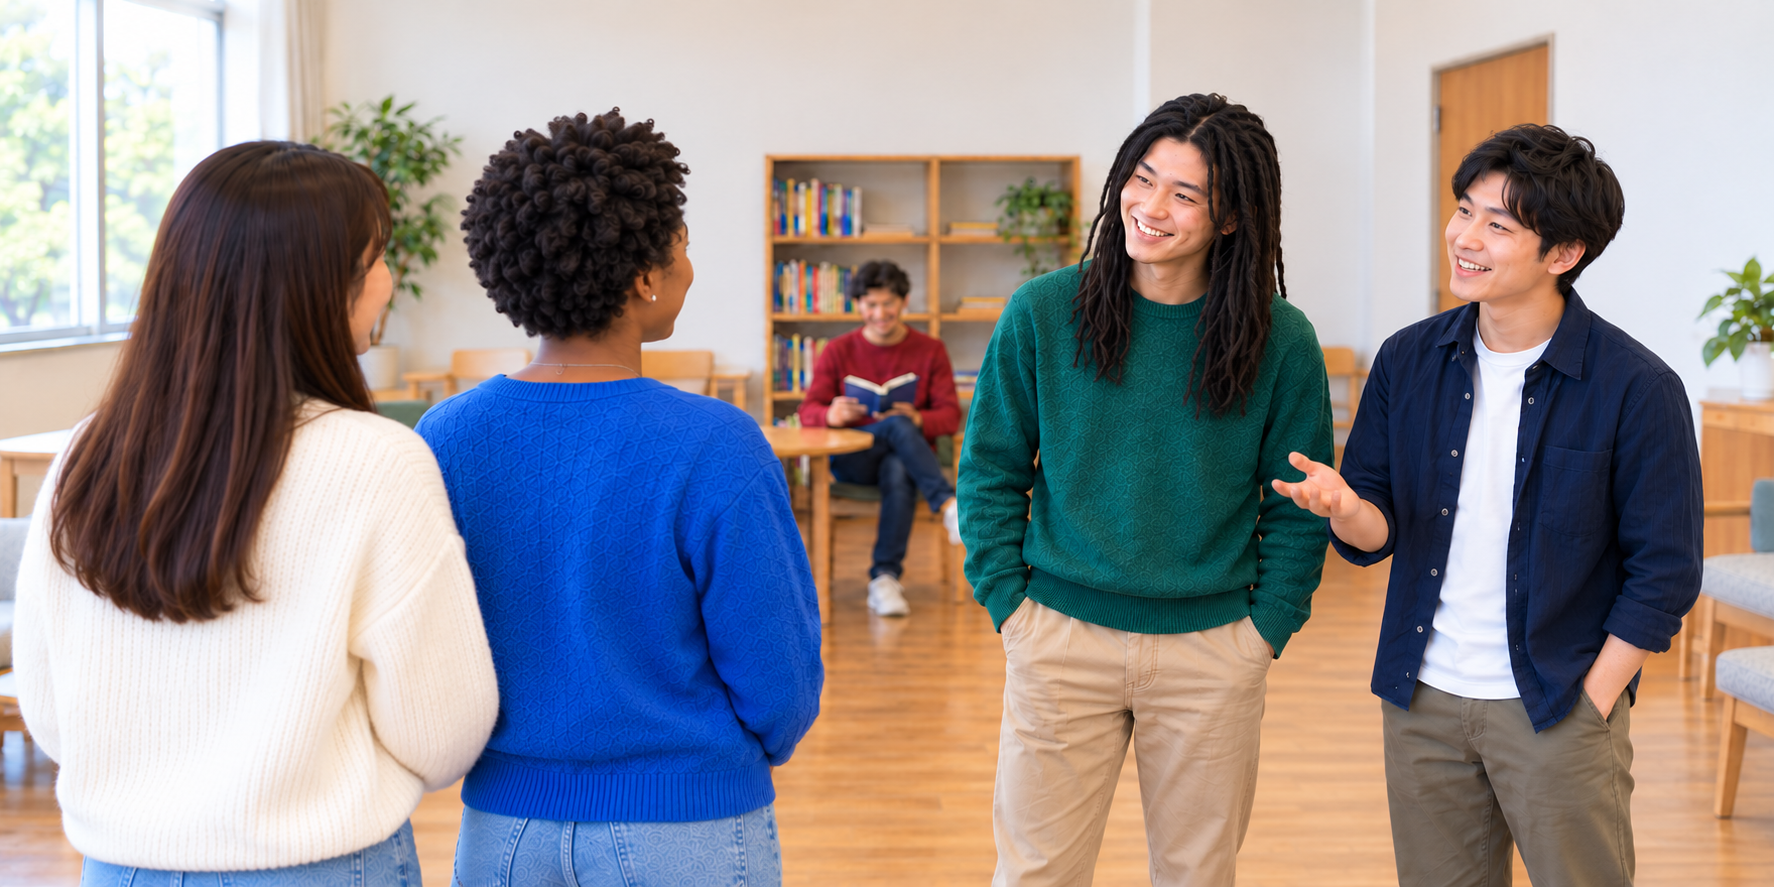
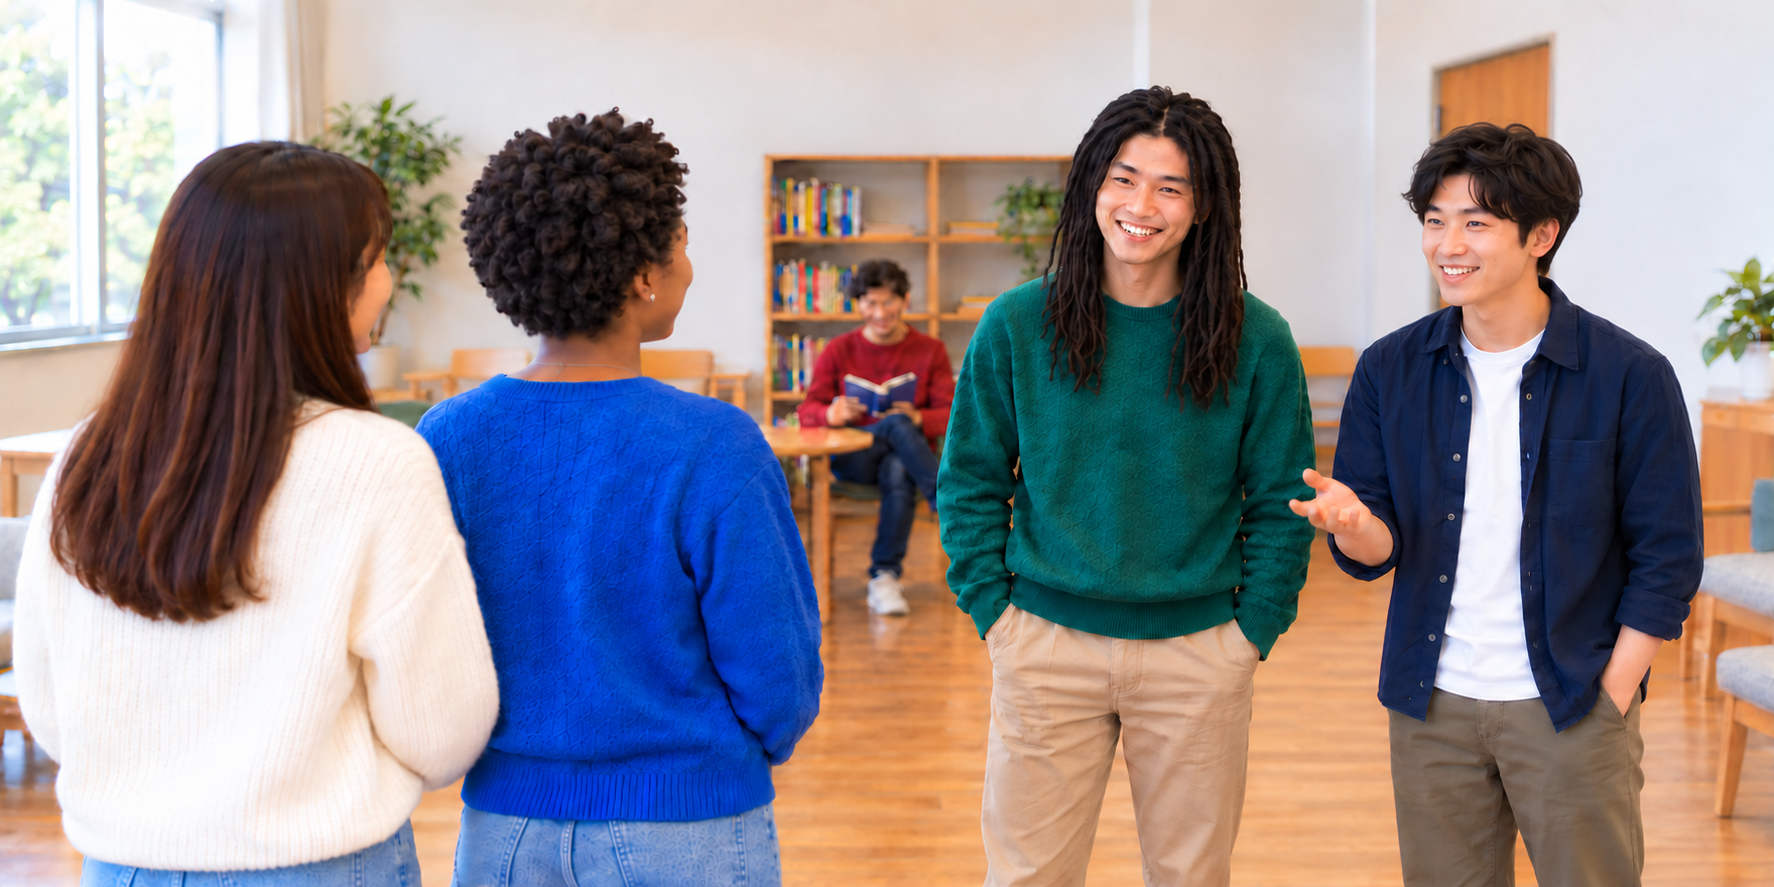
Separate noun-selection Drill 3 and who-introduction Drill 4

diff --git a/practice2-next.js b/practice2-next.js
@@ -1627,7 +1627,7 @@ function practice2ShowNotice(resultSpan, message) {
 
     function renderSections() {
         shopAudioCleanups.splice(0).forEach(cleanup=>cleanup());
-        for(const id of ['drill1Container','drill2Container','drill3Container',...(is22?[]:['drill4Container'])]){const c=document.getElementById(id);c.replaceChildren();c.hidden=false;}
+        for(const id of ['drill1Container','drill2Container','drill3Container','drill4Container']){const c=document.getElementById(id);c.replaceChildren();c.hidden=false;}
         if(!is22){renderCitySections();return;}
         const d1=document.getElementById('drill1Container');
         const exObjects=is22?[['A','せんえん','千円',1000],['B','さんぜんえん','三千円',3000],['far','よんせんえん','四千円',4000]].map(([zone,priceHira,priceKanji,priceNumber])=>({kind:'hat',hira:'ぼうし',kanji:'帽子',romaji:'bōshi',meaning:'hat',zone,priceHira,priceKanji,priceNumber})):places();
@@ -1670,7 +1670,7 @@ function practice2ShowNotice(resultSpan, message) {
             });
         }
         }
-        if(is22){renderPriceDialogue(document.getElementById('drill2Container'));renderFoodChoosing(document.getElementById('drill3Container'));}
+        if(is22){renderPriceDialogue(document.getElementById('drill2Container'));renderFoodChoosing(document.getElementById('drill3Container'));renderPeopleChoosing(document.getElementById('drill4Container'));}
         else {renderDialogue();renderChoosing();}
     }
     function renderPriceStatements(container) {
@@ -1702,7 +1702,6 @@ function practice2ShowNotice(resultSpan, message) {
         });
     }
     function renderFoodChoosing(container) {
-        if(practice2State.choosingSet===2){renderPeopleChoosing(container);return;}
         const exampleObjects=merchandise('fruit'),sample=exampleObjects[0],box=node('section','example-box p2x-dialogue-example p2x-food-example');
         const selectExample=scene(box,exampleObjects,{which:true,model:true});
         const qText=o=>'どの'+noun(o)+'が、'+price(o)+(speechStyle==='formal'?'ですか？':'？');
@@ -1710,7 +1709,7 @@ function practice2ShowNotice(resultSpan, message) {
         q.append(node('strong','','A · Question: '),listen(()=>{selectExample('A',sample.zone);return qText(sample);},'🔊きく',()=>selectExample.announce('A')),modelText(()=>qText(sample),sample));
         r.append(node('strong','','B · Response: '),listen(()=>{selectExample('B',sample.zone);return short(adnominal('B',sample));},'🔊きく',()=>selectExample.announce('B')),modelText(()=>short(adnominal('B',sample)),sample));box.append(q,r);container.append(box);
         panel(container,'Drill 3: どの + noun','💡A: Ask which group has that price. B: この／その／あの + noun. ※ Price = whole group. Nouns and この／その／あの keep the same form for one or more items.');
-        const set=setButtons(container,['おにぎり',word('おべんとう','お弁当'),'この人はだれ'],'choosingSet'),objects=merchandise(set===0?'onigiri':'bento'),select=scene(container,objects,{which:false,speakerGuide:false});
+        const set=setButtons(container,['おにぎり',word('おべんとう','お弁当')],'choosingSet'),objects=merchandise(set===0?'onigiri':'bento'),select=scene(container,objects,{which:false,speakerGuide:false});
         objects.forEach((o,i)=>{
             const current=card(container,String(i+1)),prefix=`p22_food_s${set}_A_${i}`;
             const q=recordingRow(current,'q',`<strong>A · Question:</strong> どの／${vocabulary(o)}／${priceCue(o)}`,prefix+'_q',()=>qText(o));
@@ -1723,15 +1722,14 @@ function practice2ShowNotice(resultSpan, message) {
         const set=practice2State.dialogueSet===1?1:0,asker=set===0?'A':'B',answerer=asker==='A'?'B':'A';
         const objects=PracticeNext.people.map((o,i)=>({...o,zone:['A','B','far'][i]})),sample=objects[0];
         const box=node('section','example-box p2x-dialogue-example p2x-people-example');
-        box.append(node('p','p2x-context-note','どれ = which one? · だれ = who?'));
+        box.append(node('h2','p21-distance-heading','だれ = who?'));
         const showExample=scene(box,objects,{people:true,model:true});
         const qtext=()=>question(demonstrative(asker,sample)+word('ひと','人'),word('だれ','誰')),rtext=()=>short(noun(sample)+'さん');
         for(const [role,speaker,text]of [['Question',asker,qtext],['Response',answerer,rtext]]){
             const line=node('p');line.append(node('strong','',`${speaker} · ${role}: `),listen(()=>{showExample(speaker,sample.zone);return text();},'🔊きく',()=>showExample.announce(speaker)),modelText(text,sample));box.append(line);
         }
         container.append(box);
-        panel(container,'Drill 3: この人はだれですか','💡Ask who each person is. Answer with the name.');
-        setButtons(container,['おにぎり',word('おべんとう','お弁当'),'この人はだれ'],'choosingSet');
+        panel(container,'Drill 4: この人はだれですか','💡Ask who each person is. Answer with the name.');
         setButtons(container,['A asks','B asks'],'dialogueSet');
         const select=scene(container,objects,{people:true,speakerGuide:false});
         objects.forEach((o,i)=>{
@@ -1914,7 +1912,7 @@ function practice2ShowNotice(resultSpan, message) {
     function alignColumns() {
         for (const id of [
             "drill1Container",
-            "drill2Container", "drill3Container"
+            "drill2Container", "drill3Container", "drill4Container"
         ]) {
             const tables = [
                 ...document.querySelectorAll(

diff --git a/practice2.2.html b/practice2.2.html
@@ -161,6 +161,7 @@
          ========================================================= -->
     <div id="drill2Container" class="practice-section"></div>
     <div id="drill3Container" class="practice-section"></div>
+    <div id="drill4Container" class="practice-section"></div>
 
     <!-- =========================================================
          Footer

diff --git a/docs/PRACTICE22_23_SPEC.md b/docs/PRACTICE22_23_SPEC.md
@@ -18,8 +18,8 @@
 
 ### ExampleとDrillの順序
 
-- E1→D1→E2→D2→E3→D3。D3はおにぎり/おべんとう/この人はだれの3セット。旧最下部のUnder review人物課題をD3へ統合する。各セクションはExampleを先に置き、その直後に対応Drillの見出しを置く。
-- E1・E2・E3の枠ラベルはExample1・Example2・Example3。枠内の重複したExample見出しは付けない。A／BのQuestion・Response見出しがあるモデル再生ボタンは単に「🔊きく」。E1の画像内ボタンは話者識別が必要なのでA🔊きく／B🔊きくを維持する。
+- E1→D1→E2→D2→E3→D3→E4→D4。D3はどの＋名詞のおにぎり/おべんとう、D4は新しい疑問詞だれの独立した課題。人物を食品と同じセット切替に混ぜない。旧最下部のUnder reviewは確定したE4/D4に置き換える。各セクションはExampleを先に置き、その直後に対応Drillの見出しを置く。
+- E1・E2・E3・E4の枠ラベルはExample1・Example2・Example3・Example4。枠内の重複したExample見出しは付けない。A／BのQuestion・Response見出しがあるモデル再生ボタンは単に「🔊きく」。E1の画像内ボタンは話者識別が必要なのでA🔊きく／B🔊きくを維持する。
 
 ### E1・D1：肯定文で値段を述べる
 
@@ -40,14 +40,14 @@
 - どのを含む主語の「が」、品名、価格、返答者視点を照合。色による指定・所有物の質問は使わない。名詞と指示表現は単複で形を変えないと短く補足する。
 - ど案内は2.1と同じ雲形・赤系・画像右上、小さい丸は短い棚の右端付近。
 
-### D3の人物セット：この人はだれですか
+### E4・D4：だれの導入と人物紹介
 
-- D3の第三セット「この人はだれ」を選ぶと、人物Example3→Drill 3見出し→題材切替→A asks/B asks→人物写真→3組のQuestion/Responseを表示する。おにぎり/おべんとうの既存課題は維持。旧peopleContainerとUnder review表示は撤去。
+- D3のどの＋名詞とは分離し、人物Example4→Drill 4見出し→A asks/B asks→人物写真→3組のQuestion/Responseを表示する。E4冒頭に「だれ = who?」を明示し、新概念を導入する。おにぎり/おべんとうはE3/D3に維持。旧peopleContainerとUnder review表示は撤去。
 - 写真は横長2:1、左手前にはA・黒人女性メアリー（ショートヘア・青いカーディガン）、右の少し奥には日本人男性たけし（肩より長い黒のドレッドヘア・緑のセーター）・Bが立つ。2つのペアの間に広い空間を残し、A・メアリーは同じ奥行きで肩を並べた後ろ姿で右のペアを向き、B・たけしは二人とも顔と胸を左手前のペアへ向けて会話する。Aがメアリー、Bがたけしを紹介する雰囲気。左右のペアを離し、奥中央のメキシコ系男性ロバート（赤いセーター）は座って読書している。名前はHTMLで顔より下に表示。対象ホバー/再生・録音時の強調とExampleのWho案内を継承し、DrillにはWhoを出さない。
-- Example内の既存補足「どれ = which one? · だれ = who?」も維持する。
+- どの＋名詞の選択と、だれによる人物名の質問を同じ課題として扱わない。
 - A asks：この人→メアリー、その人→たけし、あの人→ロバート。B asks：その人→メアリー、この人→たけし、あの人→ロバート。各3会話、番号1〜3、計6組。
 - 質問モデルはこの/その/あの人はだれですか、返答モデルはメアリーさんです/たけしさんです/ロバートさんです。名前だけの短答や、返答者視点の正しい指示語＋人は＋名前（さん）も許容。誤った人物名/指示語は不可。同じ人物の視点交代なので「も」へ変えない。
-- 課題キーp22_d2_s{0/1}_q/r_{row}とdialogueSetを維持し、食品セットchoosingSet={0,1}と人物={2}で録音/認識/判定を混同しない。準備/録音中は題材・質問者を切り替えない。
+- 課題キーp22_d2_s{0/1}_q/r_{row}とdialogueSetを維持し、D3食品choosingSet={0,1}とD4人物dialogueSet={0,1}で録音/認識/判定を混同しない。準備/録音中は題材・質問者を切り替えない。
 
 ## 2.3 ここ・そこ・あそこ・どこ：現行構成（2026-10-29）
 

diff --git a/docs/HANDOVER.md b/docs/HANDOVER.md
@@ -3,6 +3,7 @@
 最終更新日：2026-10-29
 
 ## 現在のリレー状態（2026-10-29／Europe/Vienna）
+- 今回開始main 8103b16/work、同期クリーン確認。ユーザー指示で2.2 D3どの＋名詞とD4だれを分離。E3/D3食品2セット維持、E4でだれ=who?導入、D4 A asks/B asks各3会話。直近選定画像exec-ae14dc9e（たけしの視線維持、Bをメアリー方向へ微調整）へ差替え。人物の既存キー/モデル/許容維持、D4も録音ロック/列整列へ追加。仕様/語彙監査更新。2.2自動409件・余白54件PASS、375/600/1440px×A/Bラベル範囲/写真比率検査、600/1440pxプレビュー確認。構文/差分チェックPASS。公開反映/ユーザー実機未確認。
 - 今回開始main cb52ec7/work、同期クリーン確認。2.2人物写真をペア間の対話へ：左手前A/メアリーを同じ奥行きの横並び・後ろ姿、右B/たけしを共に顔と胸を左手前へ向ける。最初の画像案は視線/横並びが不自然との指摘で採用せず再生成したものへ差替え。たけしは長いドレッドヘア。奥ロバート座位読書維持、メアリー/たけし対象の名前/ホバー/強調を画像に合わせ調整。モデル/判定/役割変更なし。仕様更新、375/600/1440px×A asks/B asksの写真読み込み・2:1・ラベル範囲検査PASS、600/1440pxプレビュー確認。構文/差分チェックPASS。音声ロジック未変更で今回の機能テスト再実行なし。公開反映/ユーザー実機未確認。
 - 今回開始main b04fcc4/work、同期クリーン確認。2.2人物写真のペア間隔を拡大、A/メアリーは左手前、B/たけしは右少し奥、たけしの髪は肩より長く。ロバートはさらに奥で座位読書維持。たけし対象の名前/ホバー/強調位置を画像に合わせ右へ。モデル/判定/役割変更なし。仕様更新、2.2自動407件・構文/差分チェックPASS、375〜1440pxラベル検査と600/1440pxプレビュー確認。公開反映/ユーザー実機未確認。
 - 今回開始main 1fe83e1/work、同期クリーン確認。2.2人物画像を手前4人立位・友人紹介、奥ロバート座位読書へ変更。A/メアリー左、たけし/B右。A/B印は下側外縁の体付近、人物名/ホバー/強調枠を新位置へ同期。モデル/判定/役割・2:1維持。仕様更新、2.2自動407件・構文/差分チェックPASS。375〜1440pxラベル検査、600/1440pxプレビュー確認。公開反映/ユーザー実機未確認。

diff --git a/docs/PROJECT_SPEC.md b/docs/PROJECT_SPEC.md
@@ -1102,3 +1102,5 @@ Voice変更時の旧モデル曲線消去は実装済み。モデル文変更時
 - 2026-10-29：2.1にもD4 English cuesを追加。D1全セット/D2/D3の問題キューのみ英語化、色キュー保持、日本語モデル/録音/判定維持、準備録音中無効、切替時Ex1へ戻る。D1移動案は推奨と回答したが未確定で変更していない。
 
 - 2026-10-29：2.2 D3へ「この人はだれ」人物セットを統合。おにぎり/おべんとう維持、A asks/B asks各3会話、名前短答モデル/返答者視点の全文許容。旧最下部Under review撤去、既存人物キー維持。写真は横長2:1へ更新し、A側メアリー黒人ショート、B側たけし長髪、奥ロバートメキシコ系。
+
+- 2026-10-29訂正：2.2はD3どの＋名詞とD4この人はだれですかを独立。E4で「だれ = who?」を導入する。食品と人物を同じセットへ統合しない。今回選定写真（Bの視線を微調整した案）へ差し替え、A/B各3会話と既存人物録音キーを維持。

diff --git a/docs/UI_LAYOUT_SPEC.md b/docs/UI_LAYOUT_SPEC.md
@@ -414,3 +414,5 @@ L1・L2ページはHiragana初期表示。練習2のWith漢字は参考漢字表
 - 2026-10-29：2.2人物画像はA/メアリーを左手前、B/たけしを右の少し奥へ置き、ペア同士の間隔を拡大。たけしは肩より長い髪、画像の対象位置に合わせ人物名/ホバー/強調枠を右へ調整。ロバートはさらに奥の座位読書を維持。
 
 - 2026-10-29：2.2人物画像のペア同士が向き合うよう修正。左手前A/メアリーは斜め後ろ姿、右少し奥B/たけしは左へ顔と体を向ける。たけしは長いドレッドヘア。名前/ホバー/強調は人物位置へ同期、奥ロバートの座位読書維持。
+
+- 2026-10-29：2.2の人物課題をD3のセットから独立E4/D4へ移動。D3食品は2セットのみ、D4はA asks/B asks。新概念「だれ = who?」をE4先頭へ。E3→D3→E4→D4の順と共通セクション間隔40px/例文直後24pxを維持。
